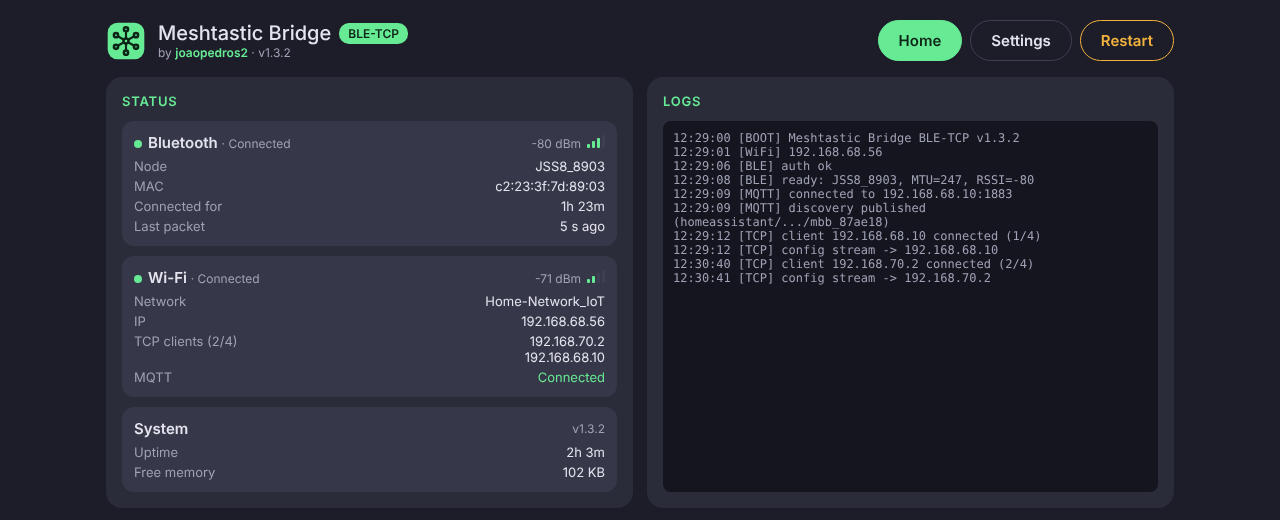
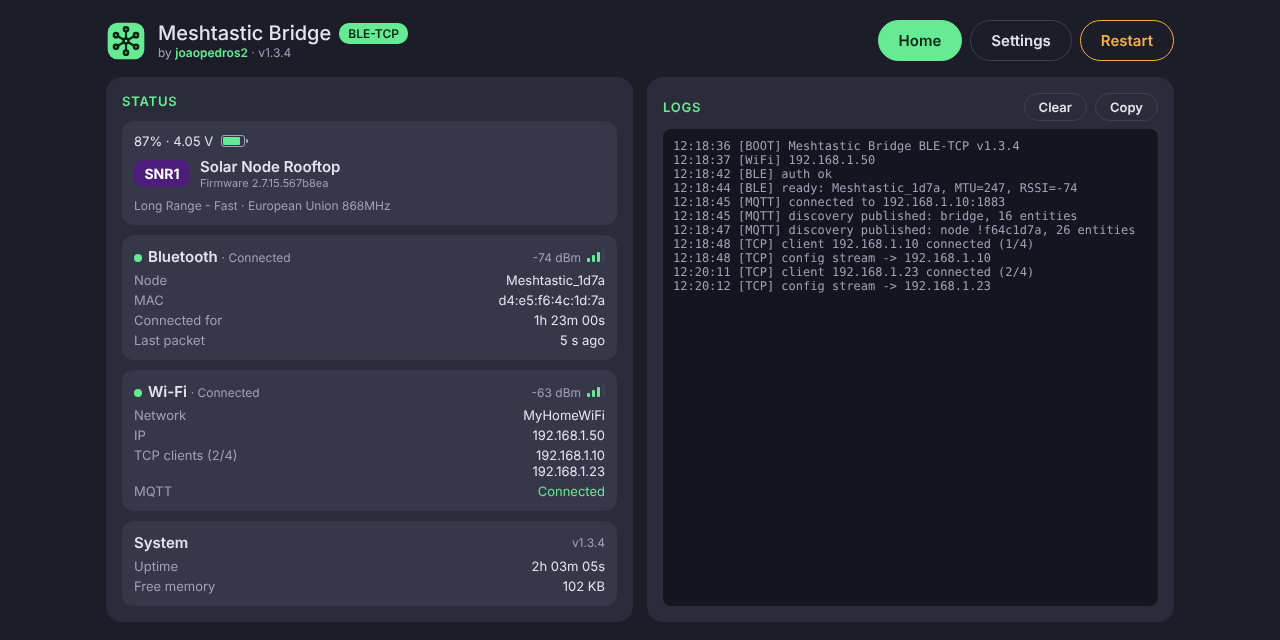
v1.3.4: generated example ids and new screenshots
Replace real node/bridge identifiers in comments, README and the MAC
placeholder with generated examples, and refresh docs screenshots.

Claude-Session: https://claude.ai/code/session_0168JjBpRi9cz6dWicFKwq6g

diff --git a/src/main.cpp b/src/main.cpp
@@ -188,7 +188,7 @@ static int lastBleError = 0;
 static const char* lastBleStage = "";
 static const char* lastBleErrorKey = "";  // short code the web page translates, e.g. "pin_rejected"
 static int bleRssi = 0;
-static String bleName;  // the node's advertised Bluetooth name, e.g. "JSS8_8903"
+static String bleName;  // the node's advertised Bluetooth name, e.g. "Meshtastic_1d7a"
 static uint32_t lastRxMs = 0;
 static uint32_t bleConnectedAt = 0;  // millis() when the current BLE link became ready
 static uint32_t bleConnectCount = 0;  // successful connections since boot (reconnects = count - 1)
@@ -197,14 +197,14 @@ static volatile int disconnectReason = -1;  // set by BLE task, -1 = nothing pen
 
 static bool apActive = false;
 static String apSsid;  // unique per chip, so several bridges don't collide
-static String chipId;  // last 3 bytes of the chip MAC, e.g. "87ae18"
-static String chipSuffix;  // last 2 bytes, e.g. "AE18" - tells several bridges apart
+static String chipId;  // last 3 bytes of the chip MAC, e.g. "5b3c91"
+static String chipSuffix;  // last 2 bytes, e.g. "3C91" - tells several bridges apart
 
 // Default name carries the chip suffix, so several bridges never share a hostname / HA device name
 static String defaultHostname() {
   String sfx = chipSuffix;
   sfx.toLowerCase();
-  return String(PROJECT_SLUG) + "-" + sfx;  // e.g. meshtastic-bridge-ble-tcp-ae18
+  return String(PROJECT_SLUG) + "-" + sfx;  // e.g. meshtastic-bridge-ble-tcp-3c91
 }
 
 // Name shown in Home Assistant and to the apps (mDNS)
@@ -1847,7 +1847,7 @@ void setup() {
   chipSuffix = suffix;
   // Old single default name -> per-chip default (a name chosen by the user is kept)
   if (cfg.hostname.isEmpty() || cfg.hostname == PROJECT_SLUG) cfg.hostname = defaultHostname();
-  apSsid = String(PROJECT_SLUG) + "-" + suffix;  // e.g. meshtastic-bridge-ble-tcp-AE18 (30 chars, SSID max 32)
+  apSsid = String(PROJECT_SLUG) + "-" + suffix;  // e.g. meshtastic-bridge-ble-tcp-3C91 (30 chars, SSID max 32)
   logf("[BOOT] %s v%s", PROJECT_NAME, FW_VERSION);
 
   WiFi.setHostname(cfg.hostname.c_str());  // must precede mode()/begin()

diff --git a/include/web_page.h b/include/web_page.h
@@ -118,7 +118,7 @@ footer{text-align:center;color:var(--mut);font-size:12px;padding:8px 0 24px}
 <div id="bleFields">
 <div class="btns"><button id="bleScanBtn" class="sec" onclick="bleScan()" data-i18n="scan_nodes"></button></div>
 <div id="bleList" class="list"></div>
-<label data-i18n="mac_address"></label><input id="bleMac" placeholder="c2:23:3f:7d:89:03">
+<label data-i18n="mac_address"></label><input id="bleMac" placeholder="d4:e5:f6:4c:1d:7a">
 <input id="bleType" type="hidden" value="1">
 <label data-i18n="ble_pin"></label><input id="blePin" inputmode="numeric" placeholder="123456">
 <div class="btns"><button onclick="bleSave()" data-i18n="save_connect"></button></div>

diff --git a/README.md b/README.md
@@ -78,9 +78,9 @@ Enable it in **Settings → MQTT** (broker, port, user, password). Topics live u
 Two devices appear in Home Assistant:
 
 - **The bridge** (`Meshtastic Bridge BLE-TCP XXXX`): Bluetooth connected, Bluetooth state, Bluetooth RSSI, Bluetooth connected for, Bluetooth reconnects, TCP clients; controls: Restart, Bluetooth reconnect (buttons), Bluetooth link (switch); diagnostics: status, node Bluetooth name, Wi-Fi SSID, Wi-Fi RSSI, IP, uptime, free memory, DNS address, Wi-Fi MAC address, internal temperature.
-- **The node** (`Meshtastic Node 8903`, from the last 4 digits of its node id), linked to the bridge (model, firmware and node id as serial number): position (device tracker, when the node shares one), battery, voltage, channel utilization, airtime TX, uptime, online / known nodes, packets RX / TX / RX bad, noise floor; diagnostics: packets RX duplicate, packets relayed, relays canceled, packets TX dropped, free / total memory, firmware, hardware, role, radio, ID, long name, short name, external power.
+- **The node** (`Meshtastic Node 1D7A`, from the last 4 digits of its node id), linked to the bridge (model, firmware and node id as serial number): position (device tracker, when the node shares one), battery, voltage, channel utilization, airtime TX, uptime, online / known nodes, packets RX / TX / RX bad, noise floor; diagnostics: packets RX duplicate, packets relayed, relays canceled, packets TX dropped, free / total memory, firmware, hardware, role, radio, ID, long name, short name, external power.
 
-Ids come from hardware, never from names: the bridge uses its chip id (`mbb_87ae18_…`, `sensor.meshtastic_bridge_87ae18_…`) and the node its node number (`mbn_3f7d8903_…`, `sensor.meshtastic_3f7d8903_…`). Renaming the node in the Meshtastic app only changes the *Long name* / *Short name* entities; device name, entity ids, history, dashboards and automations stay the same. If the bridge is pointed at another node, the old node's device is removed.
+Ids come from hardware, never from names: the bridge uses its chip id (`mbb_5b3c91_…`, `sensor.meshtastic_bridge_5b3c91_…`) and the node its node number (`mbn_f64c1d7a_…`, `sensor.meshtastic_f64c1d7a_…`). Renaming the node in the Meshtastic app only changes the *Long name* / *Short name* entities; device name, entity ids, history, dashboards and automations stay the same. If the bridge is pointed at another node, the old node's device is removed.
 
 Node values come from the telemetry the node sends to its client (every minute) and its local stats (every 15 min), so they update while a client (app, Home Assistant…) is connected. Entities go *unavailable* in HA when the bridge is offline.
 
